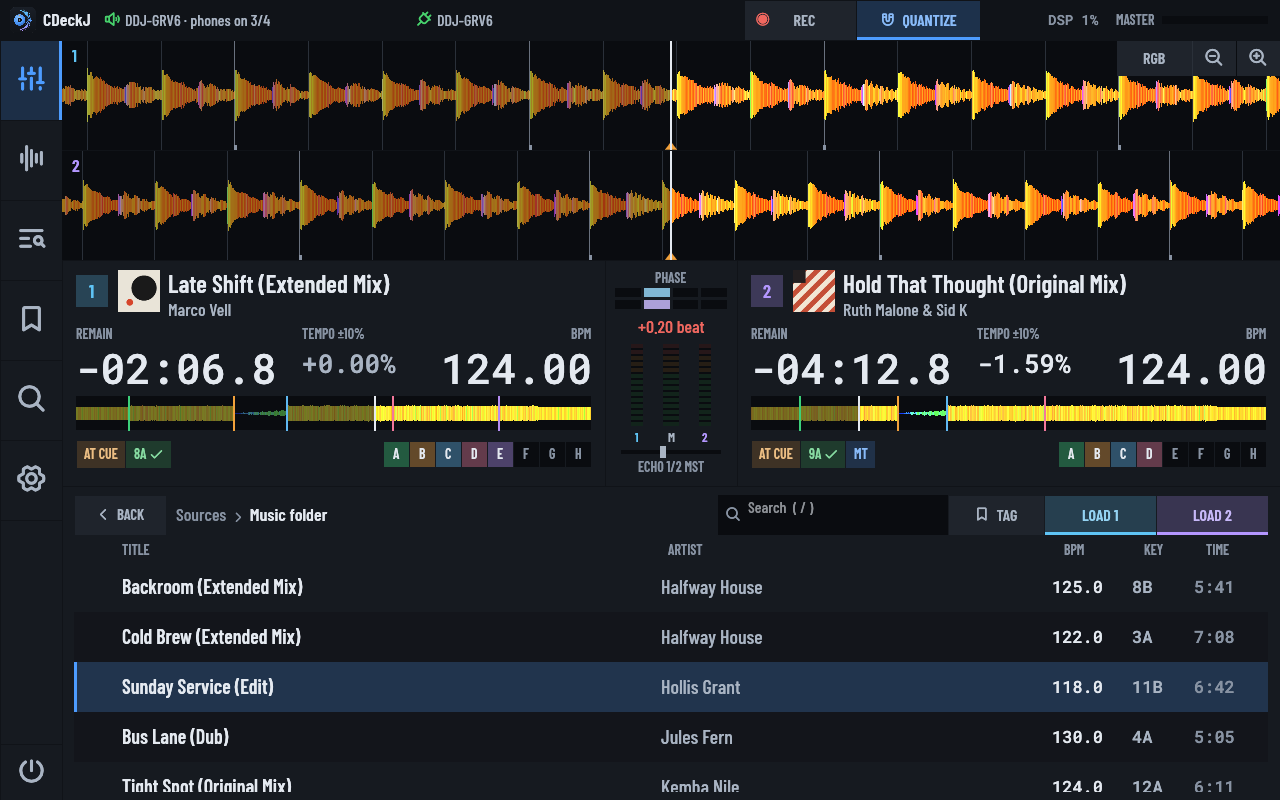
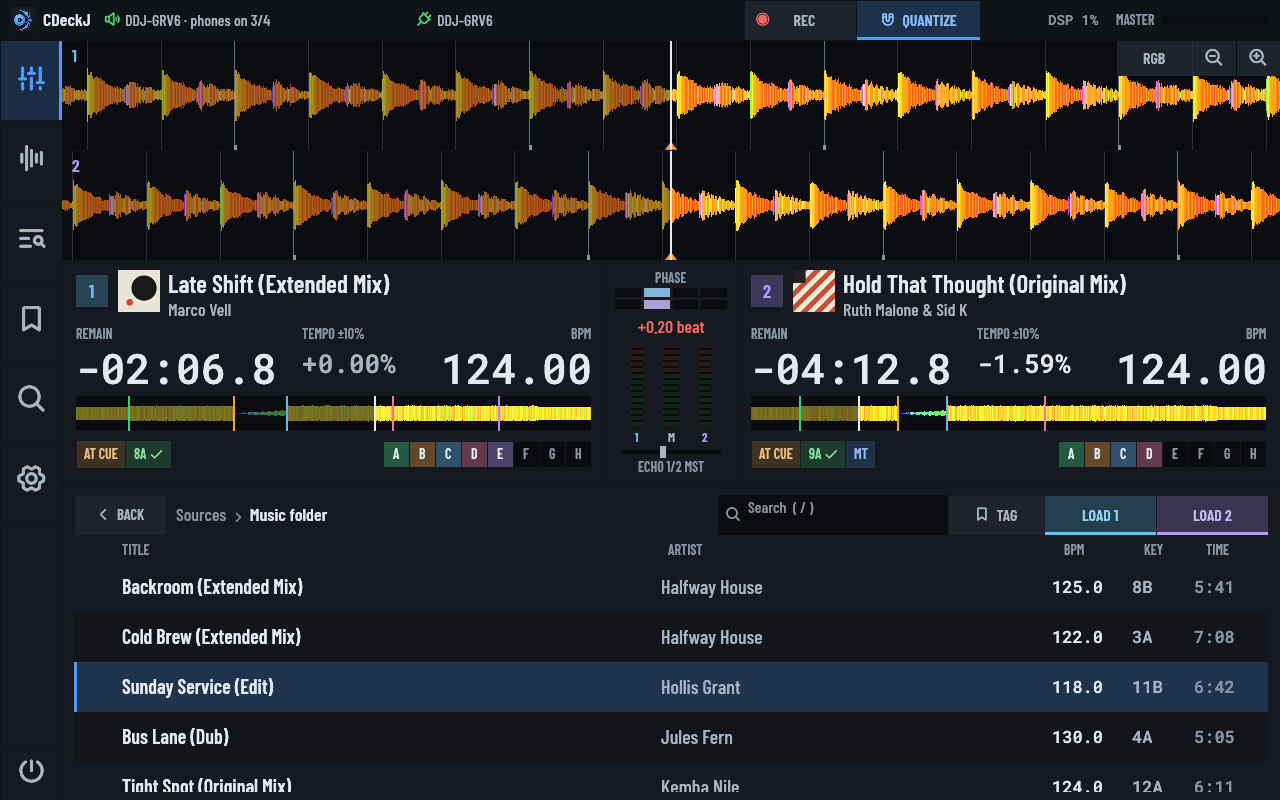
Scale the scrolling waveform by the deck's tempo
- Beats are the same width on both decks when their BPMs match.

Changed region(s): [[0.0312, 0.2188, 0.5, 0.2812], [0.5312, 0.2188, 1.0, 0.2812]]

diff --git a/src/ui/panels/waveform.rs b/src/ui/panels/waveform.rs
@@ -7,6 +7,37 @@ use crate::engine::deck::SCRATCH_SECS_PER_TICK;
 use crate::ui::HOT_LETTERS;
 use crate::ui::App;
 
+/// Slowest tempo the scrolling waveform scales to. WIDE reaches a tempo of zero, which
+/// would squeeze the whole track into the view.
+const MIN_SCROLL_RATE: f64 = 0.25;
+
+/// Track time ↔ x in the scrolling waveform. The view shows a fixed span of playing time, so
+/// a deck at a higher tempo shows more of its track, and beats are equally wide on both
+/// decks when their BPMs match.
+struct Scroll {
+    /// x of the playhead.
+    cx: f32,
+    /// Playhead in track seconds.
+    pos_s: f64,
+    /// Pixels per track second.
+    pps: f64,
+}
+
+impl Scroll {
+    /// `px_per_sec` is pixels per second of playing time; `rate` the deck's tempo multiplier.
+    fn new(cx: f32, pos_s: f64, px_per_sec: f64, rate: f64) -> Self {
+        Self { cx, pos_s, pps: px_per_sec / rate.max(MIN_SCROLL_RATE) }
+    }
+
+    fn t_at(&self, x: f32) -> f64 {
+        self.pos_s + (x - self.cx) as f64 / self.pps
+    }
+
+    fn x_at(&self, s: f64) -> f32 {
+        self.cx + ((s - self.pos_s) * self.pps) as f32
+    }
+}
+
 impl App {
     /// Waveform colour and zoom over the top-right of the waveforms; `big` for touch.
     pub(crate) fn zoom_buttons(&mut self, ui: &Ui, waves: Rect, big: bool) {
@@ -35,14 +66,14 @@ impl App {
             return;
         };
         let sr = track.sample_rate as f64;
-        let pos_s = dv.pos / sr;
-        let pps = r.width() as f64 / self.config.waveform_seconds; // pixels per second
         // Playhead centred, or toward the left (WAVEFORM CURRENT POSITION) to see more ahead.
         let cx = if self.config.playhead_left { r.min.x + r.width() * 0.3 } else { r.center().x };
+        let scroll = Scroll::new(cx, dv.pos / sr, r.width() as f64 / self.config.waveform_seconds, dv.rate);
+        let pps = scroll.pps;
         let mid_y = r.center().y;
         let half = r.height() * 0.46;
-        let t_at = |x: f32| pos_s + (x - cx) as f64 / pps;
-        let x_at = |s: f64| cx + ((s - pos_s) * pps) as f32;
+        let t_at = |x: f32| scroll.t_at(x);
+        let x_at = |s: f64| scroll.x_at(s);
 
         if let (Some(a), Some(b)) = (dv.loop_in, dv.loop_out) {
             let lr = Rect::from_x_y_ranges(x_at(a / sr)..=x_at(b / sr), r.y_range());
@@ -201,5 +232,39 @@ impl App {
                 self.send(Cmd::Seek(d, f as f64));
             }
         }
+    }
+}
+
+#[cfg(test)]
+mod tests {
+    use super::*;
+
+    /// x of beat `k` of a constant-tempo track playing at `rate`, `beats_in` beats into it.
+    fn beat_x(bpm: f64, rate: f64, beats_in: f64, k: f64) -> f32 {
+        let beat_s = 60.0 / bpm;
+        Scroll::new(400.0, beats_in * beat_s, 100.0, rate).x_at(k * beat_s)
+    }
+
+    #[test]
+    fn beats_line_up_when_the_decks_play_at_the_same_bpm() {
+        // A 128 BPM track slowed to 124 beside a 124 BPM track, both 10.25 beats in.
+        for k in [8.0, 10.0, 11.0, 14.0] {
+            let (a, b) = (beat_x(124.0, 1.0, 10.25, k), beat_x(128.0, 124.0 / 128.0, 10.25, k));
+            assert!((a - b).abs() < 0.01, "beat {k}: {a} vs {b}");
+        }
+    }
+
+    #[test]
+    fn the_view_spans_a_fixed_playing_time() {
+        // 100 px per second of playing time: at +10 % the next 1.1 s of track fit in 100 px.
+        let s = Scroll::new(400.0, 30.0, 100.0, 1.1);
+        assert!((s.x_at(31.1) - 500.0).abs() < 0.01);
+        assert!((s.t_at(500.0) - 31.1).abs() < 1e-6);
+    }
+
+    #[test]
+    fn a_stopped_tempo_fader_keeps_a_usable_scale() {
+        let s = Scroll::new(400.0, 30.0, 100.0, 0.0);
+        assert!(s.pps.is_finite() && (s.x_at(30.25) - 500.0).abs() < 0.01);
     }
 }
